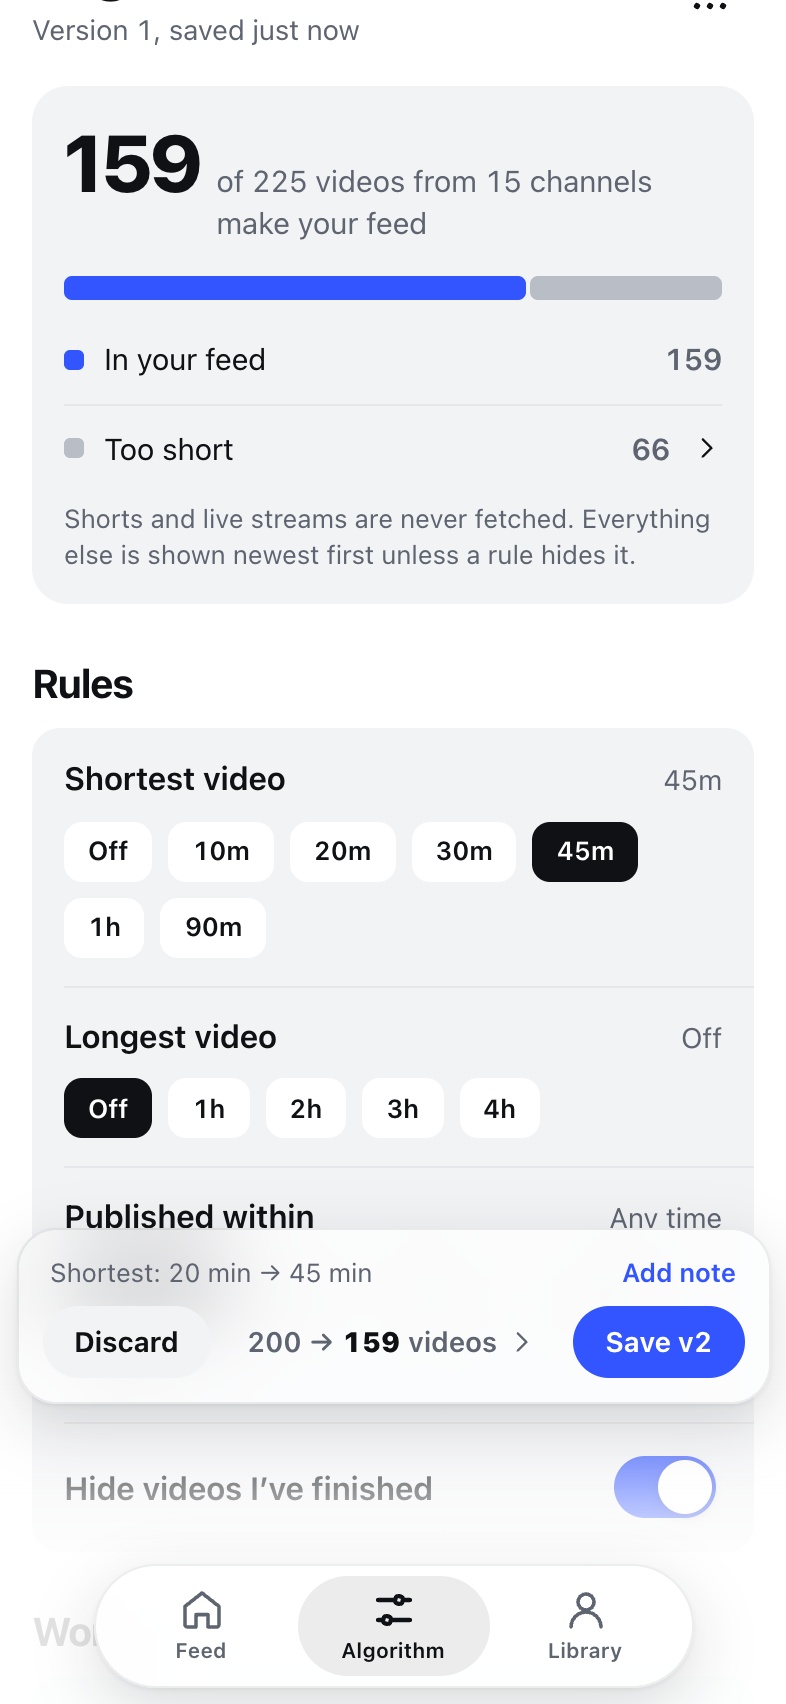
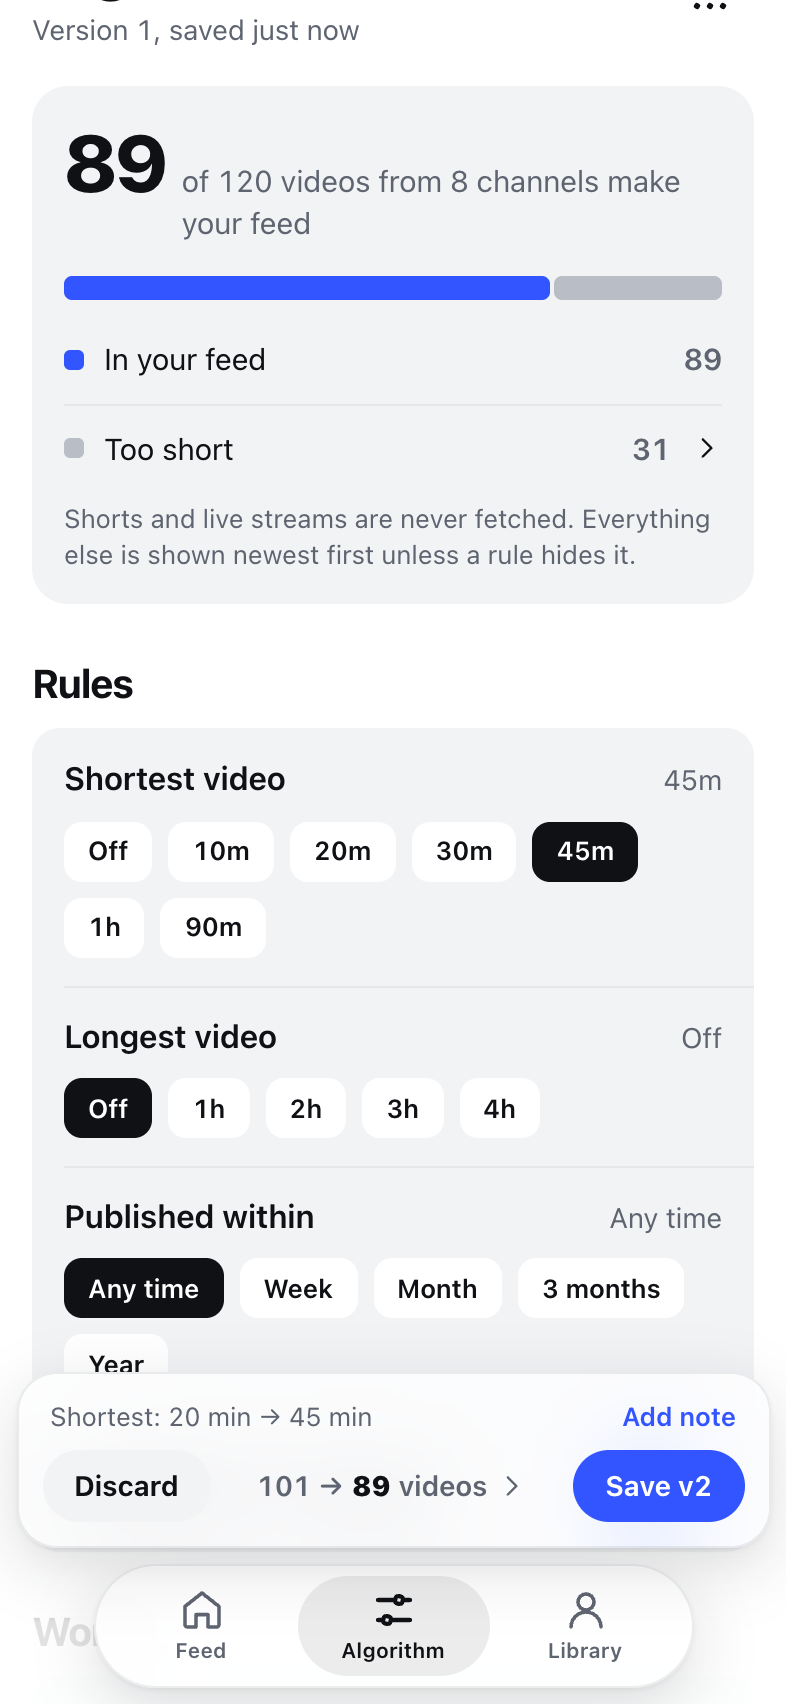
Keep the save bar docked to the tab bar and toasts toast-sized on desktop.
A specificity tie let the hidden mini-player keep reserving 72px under the save bar, and a leftover desktop bottom offset stretched top-pinned toasts to full height.

diff --git a/src/styles.css b/src/styles.css
@@ -789,7 +789,7 @@ img { display: block; }
   position: fixed;
   z-index: 25;
   left: 50%;
-  bottom: calc(var(--dock) + var(--tabbar) + var(--mini) + 8px);
+  bottom: calc(var(--dock) + var(--tabbar) + 8px);
   transform: translateX(-50%);
   width: min(560px, calc(100% - 16px));
   padding: 12px;
@@ -800,8 +800,8 @@ img { display: block; }
 .savebar .summary { display: flex; align-items: baseline; gap: 10px; padding: 0 4px 8px; font-size: 13px; color: var(--text-2); }
 .savebar .summary span { flex: 1; min-width: 0; white-space: nowrap; overflow: hidden; text-overflow: ellipsis; }
 .savebar .summary .link { flex: none; font-size: 13px; }
-html.has-draft { --mini: 0px; }
-html.has-draft .mini { display: none; }
+:root.has-draft { --mini: 0px; } /* same specificity as .has-mini and later in the file, so it wins */
+:root.has-draft .mini { display: none; }
 .savebar .field { height: 40px; margin: 0 0 8px; background: color-mix(in srgb, var(--text) 6%, transparent); }
 .savebar .buttons { display: flex; align-items: center; gap: 8px; }
 .savebar .delta { flex: 1; display: flex; align-items: center; justify-content: center; gap: 4px; height: 36px; font-size: 14px; font-weight: 600; color: var(--text-2); border-radius: 999px; }
@@ -910,8 +910,8 @@ html.has-draft .mini { display: none; }
   #root > .app { padding-left: var(--rail); }
   .view { padding-bottom: calc(var(--mini) + 40px); }
   .mini { left: calc(50% + var(--rail) / 2); bottom: 16px; }
-  .savebar { left: calc(50% + var(--rail) / 2); bottom: calc(var(--mini) + 16px); }
-  .toasts { bottom: calc(var(--mini) + 24px); padding-left: var(--rail); }
+  .savebar { left: calc(50% + var(--rail) / 2); bottom: 16px; }
+  .toasts { padding-left: var(--rail); }
   .topbar { padding-left: 24px; padding-right: 16px; }
   .topbar .brand { display: none; }
   .search-box { display: flex !important; }
